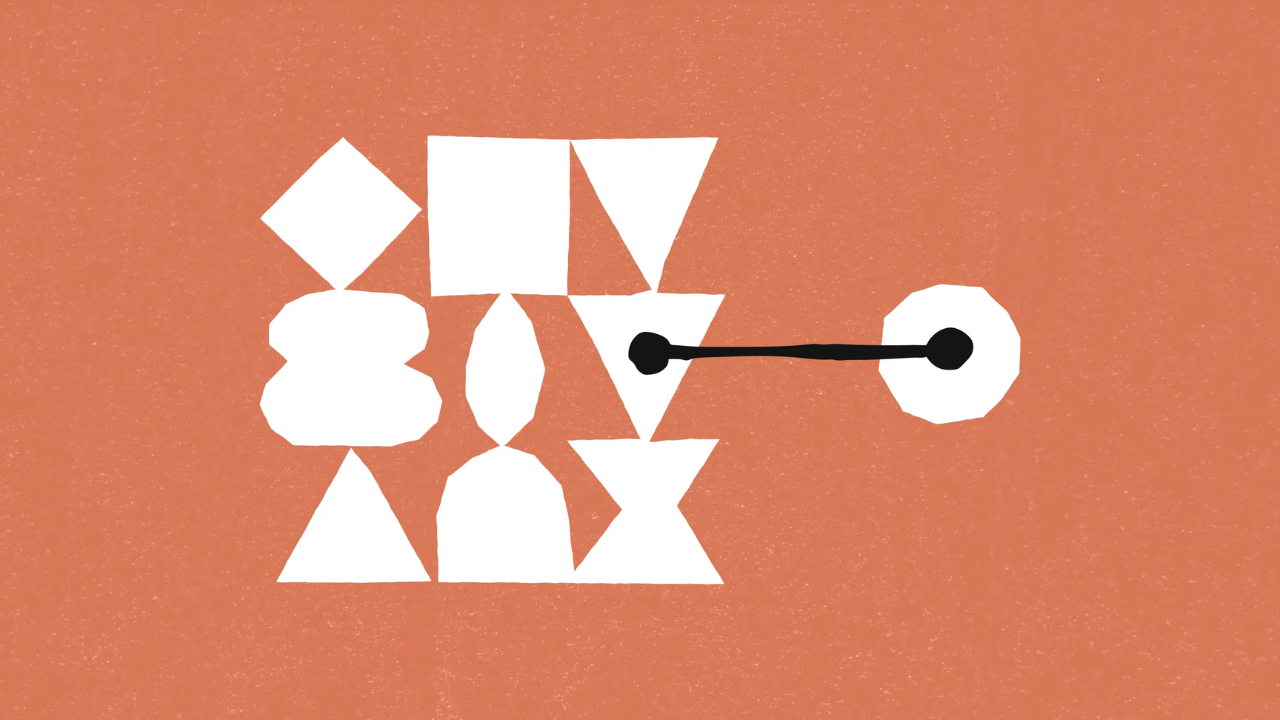
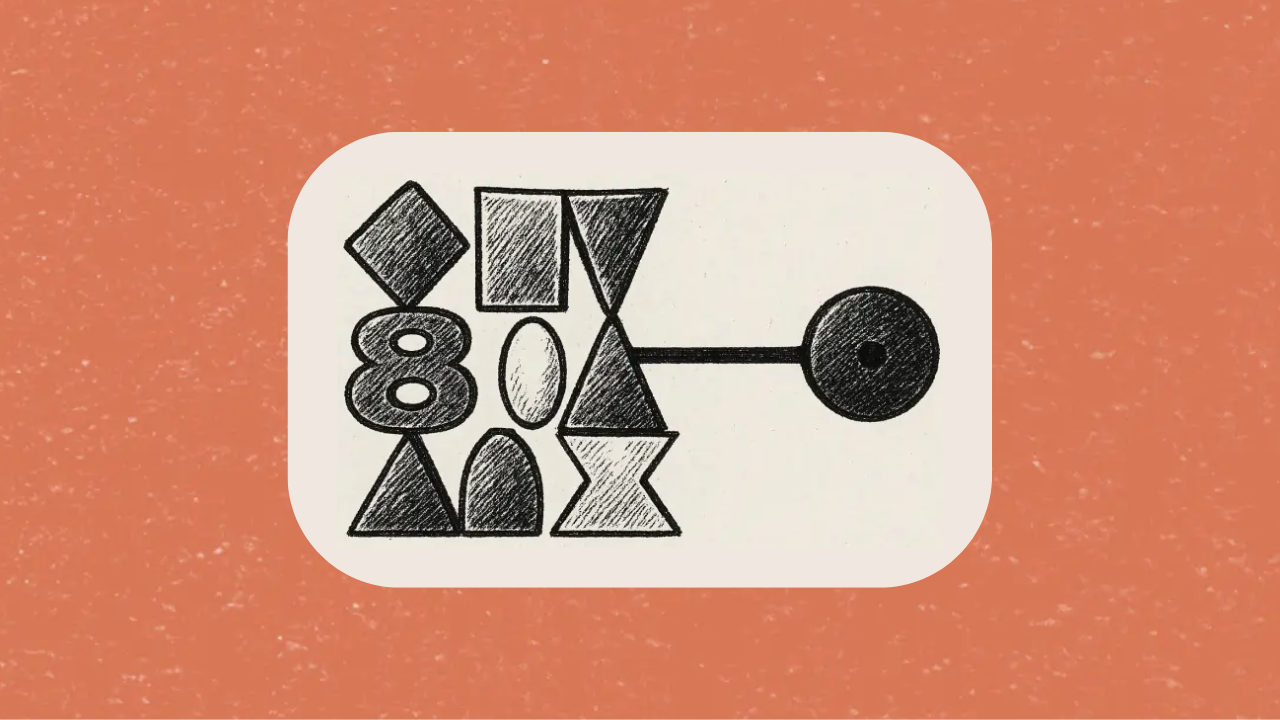
New thumbnails for blogs, Landing page UI bug first test fix

diff --git a/docs/blog/posts/post-2.md b/docs/blog/posts/post-2.md
@@ -1,7 +1,8 @@
 ---
-title: Private GPT
+title: Private GPT on Linux/WSL
 date:
   created: 2025-10-01
+  updated: 2025-10-07
 categories:
   - GPTs and LLMs
 ---
@@ -11,9 +12,6 @@ categories:
 </div>
 
 <!-- more -->
-<div align="center" style="font-size: 0.7em; font-style: italic;">
-  Image courtesy: <a href="https://x.com/ollama/status/1932179388151255081" target="_blank" style="text-decoration: underline; color: inherit;">Ollama</a>
-</div>
 
 &nbsp;
 
@@ -27,7 +25,7 @@ So I went in, got my hands dirty and got that set up. Took me a couple of weeks 
 
 &nbsp;
 
-## :material-toolbox: Setup and Installation
+## :material-toolbox: Installation and Setup
 
 ### **Ollama**
 
@@ -61,7 +59,7 @@ Awesome, once all that is done, you will be asked to make an Admin credential. D
 
 Awesome, so if everything is done right, Ollama would have also been recognised by default and you will see your model being listed in the UI. Go ahead and try it out. You have officially set up your very own Private GPT!
 
-## :fontawesome-solid-gears: Advanced Topics
+## :fontawesome-solid-gears: Useful features (Advanced Setups)
 
 Okay so you have set up our Private GPT (Yay). That's the easy part so let's get into the cool part. Now, there are a lot of capabilities we can unlock from here, to truly build an intelligent system which is useful for us and that is what I will be covering here. Everything which I have tried and which ACTUALLY worked.
 
@@ -74,9 +72,9 @@ This used to be slightly tricky during the earlier versions (especially the redi
 The [Env Configuration](https://docs.openwebui.com/getting-started/env-configuration#microsoft) of the documentation covers this really well including all the variables you require. Make sure you follow the Microsoft Learn link where they guide you through making the app on Entra. I have attached how that app is going to look after all of it is done:
 
 <div align="center">
-<img src="/assets/images/blog-assets/post-2-assets/od-5.png" alt="oAuth Setup" width="90%">
-<p><i>2 IDs, 1 Secret URL and 1 Redirect URL</i></p>
+<img src="/assets/images/blog-assets/post-2-assets/od-5.png" alt="oAuth Setup" width="80%" style="border: 1px solid #e0e0e0; border-radius: 10px; box-shadow: 0 4px 10px rgba(0,0,0,0.1);">
 </div>
+<div align="center" style="font-size: 0.7em; font-style: italic;">2 IDs, 1 Secret URL and 1 Redirect URL</div>
 
 Couple of important points here:
 
@@ -101,58 +99,28 @@ Here's some visual help on which all values you are supposed to consider as you 
 <br>
 
 <div align="center">
-<img src="/assets/images/blog-assets/post-2-assets/od-2.png" alt="OneDrive Setup - Overview page" width="90%">
-<p><i>Overview of the app created for handling OneDrive setup</i></p>
+<img src="/assets/images/blog-assets/post-2-assets/od-2.png" alt="OneDrive Setup - Overview page" width="80%" style="border: 1px solid #e0e0e0; border-radius: 10px; box-shadow: 0 4px 10px rgba(0,0,0,0.1);">
 </div>
+<div align="center" style="font-size: 0.7em; font-style: italic;">Overview of the app created for handling OneDrive setup</div>
 
 <br>
 
 <div align="center">
-<img src="/assets/images/blog-assets/post-2-assets/od-1.png" alt="OneDrive Setup - API Permissions" width="90%">
-<p><i>Necessary API Permissions that need to be delegated</i></p>
+<img src="/assets/images/blog-assets/post-2-assets/od-1.png" alt="OneDrive Setup - API Permissions" width="80%" style="border: 1px solid #e0e0e0; border-radius: 10px; box-shadow: 0 4px 10px rgba(0,0,0,0.1);">
 </div>
+<div align="center" style="font-size: 0.7em; font-style: italic;">Necessary API Permissions that need to be delegated</div>
 
 <br>
 
 <div align="center">
-<img src="/assets/images/blog-assets/post-2-assets/od-3.png" alt="OneDrive Setup - SPA Redirect" width="90%">
+<img src="/assets/images/blog-assets/post-2-assets/od-3.png" alt="OneDrive Setup - SPA Redirect" width="80%" style="border: 1px solid #e0e0e0; border-radius: 10px; box-shadow: 0 4px 10px rgba(0,0,0,0.1);">
 </div>
 
 <div align="center">
-<img src="/assets/images/blog-assets/post-2-assets/od-4.png" alt="OneDrive Setup - Redirect Tokens check" width="90%">
-<p><i>For Redirect ensure you select 'Single-Page Application' and check the two tokens options</i></p>
+<img src="/assets/images/blog-assets/post-2-assets/od-4.png" alt="OneDrive Setup - Redirect Tokens check" width="80%" style="border: 1px solid #e0e0e0; border-radius: 10px; box-shadow: 0 4px 10px rgba(0,0,0,0.1);">
 </div>
+<div align="center" style="font-size: 0.7em; font-style: italic;">For Redirect ensure you select 'Single-Page Application' and check the two tokens options</div>
 
 &nbsp;
 
-### III. **Improving Model performance**
-
-One major issue I had observed was users had to wait for a few seconds before the model could start responding. Now that doesn't really sound like a big deal, but when you are trying to push your users to use a private, secured GPT environment you also essentially have to convince them to move away from the brilliant ChatGPT platform (which is not an easy task). One major thing which makes ChatGPT very attractive is its performance. The speed of response is just ridiculously fast. We can't obviously match the infrastructure they have for the computation, but we can make our system marginally better.
-
-> While this is something I am still exploring (will update this section as I find more) here are a few tweaks I did find.
-
-Keeping the Model "warm" - Now this involves choosing one model and making sure it always runs whether it's been invoked or not. So Ollama remains active in the GPU resource therefore able to pull up more juice for faster response time. This way when the user does call the model for a query it responds almost immediately.
-
-<div align="center">
-<img src="/assets/images/blog-assets/post-2-assets/owu-1.png" alt="Ollama control" width="90%">
-</div>
-
-<div align="center">
-<img src="/assets/images/blog-assets/post-2-assets/owu-2.png" alt="Ollama control" width="90%">
-</div>
-
-Now this obviously comes with its drawbacks. A major one was already addressed - Infrastructure. Normally we do not really have that much GPU memory to always keep that resource active. What about the other projects which are running on our server? While GPU utilization implemented in NVIDIA Drivers is pretty intelligent, we need to keep an eye too. Take a look at the following image:
-
-<div align="center">
-<img src="/assets/images/blog-assets/post-2-assets/owu-3.png" alt="Ollama control" width="90%">
-</div>
-
-So from what I have observed so far, the other parameter tweaks that you do to a model directly impact the GPU utilization for it. In my case, I have noticed a change whenever I change the context window of a model.
-
-<div align="center">
-<img src="/assets/images/blog-assets/post-2-assets/owu-4.png" alt="Ollama control" width="90%">
-</div>
-
-I might be wrong here, maybe there is another factor causing this. But it is worth noting that you have to be very aware of the environment you are working in. While it's very tempting to reach the performance capability of ChatGPT it's also important to understand what the limits of your environment are as well as you cannot afford to have any downtime while you have users using your application.
-
-&nbsp;
+!!! info "Will add more features as I implement them and if they are useful enough to be worth documenting"

diff --git a/docs/blog/posts/post-1.md b/docs/blog/posts/post-1.md
@@ -12,9 +12,6 @@ categories:
 </div>
 
 <!-- more -->
-<div align="center" style="font-size: 0.7em; font-style: italic;">
-  Image courtesy: <a href="https://www.anthropic.com/news/model-context-protocol" target="_blank" style="text-decoration: underline; color: inherit;">Anthropic</a>
-</div>
 
 &nbsp;
 
@@ -55,11 +52,21 @@ A. MCP Servers provide tool schemas + functions already defined for you.
 MCP is essentially a Client-Server Architecture. The following two slides show this well.
 
 <div align="center">
-<img src="/assets/images/blog-assets/post-1-assets/mcp-arch-1.png" alt="Client-Server Architecture" width="90%">
+    <img 
+        src="/assets/images/blog-assets/post-1-assets/mcp-arch-1.png" 
+        alt="Client-Server Architecture" 
+        width="80%" 
+        style="border: 1px solid #e0e0e0; border-radius: 10px; box-shadow: 0 4px 10px rgba(0,0,0,0.1);"
+    >
 </div>
 
 <div align="center">
-<img src="/assets/images/blog-assets/post-1-assets/mcp-arch-2.png" alt="Working of Client-Server Architecture" width="90%">
+    <img 
+        src="/assets/images/blog-assets/post-1-assets/mcp-arch-2.png" 
+        alt="Working of Client-Server Architecture" 
+        width="80%" 
+        style="border: 1px solid #e0e0e0; border-radius: 10px; box-shadow: 0 4px 10px rgba(0,0,0,0.1);"
+    >
 </div>
 
 In the second image above, we can see three different functionalities which MCP offers: Tools, Resources and Prompt Templates. So how do we utilize them?
@@ -114,7 +121,7 @@ In the second image above, we can see three different functionalities which MCP 
     Below shows the two ways. In direct we specifically choose the file we need via `@`, but in template we simply mention it as part of the prompt and it is sent to the client. The application then decides whether it needs to take that data or not (Rather than having a tool call first to take the data, then pass it to the prompt and then send).
 
     <div align="center">
-    <img src="/assets/images/blog-assets/post-1-assets/mcp-resources.png" alt="Working of Client-Server Architecture" width="90%">
+    <img src="/assets/images/blog-assets/post-1-assets/mcp-resources.png" alt="Working of Client-Server Architecture" width="80%" style="border: 1px solid #e0e0e0; border-radius: 10px; box-shadow: 0 4px 10px rgba(0,0,0,0.1);">
     </div>
 
 3. **Prompts**
@@ -138,7 +145,12 @@ In the second image above, we can see three different functionalities which MCP 
 The image below depicts the typical communication lifecycle between MCP servers and clients.
 
 <div align="center">
-<img src="/assets/images/blog-assets/post-1-assets/communication-lifecycle.png" alt="Communication Lifecycle" width="90%">
+    <img 
+        src="/assets/images/blog-assets/post-1-assets/communication-lifecycle.png" 
+        alt="Communication Lifecycle" 
+        width="80%" 
+        style="border: 1px solid #e0e0e0; border-radius: 10px; box-shadow: 0 4px 10px rgba(0,0,0,0.1);"
+    >
 </div>
 
 It is important to understand the steps here as these will be seen in code as well.
@@ -157,15 +169,30 @@ There are types for this as well depending on where the servers are running:
 - Remote servers: `HTTP+SSE (Server Sent Events)` or `Streamable HTTP`.
 
 <div align="center">
-<img src="/assets/images/blog-assets/post-1-assets/local-connection.png" alt="Local Connection" width="90%">
+    <img 
+        src="/assets/images/blog-assets/post-1-assets/local-connection.png" 
+        alt="Local Connection" 
+        width="80%" 
+        style="border: 1px solid #e0e0e0; border-radius: 10px; box-shadow: 0 4px 10px rgba(0,0,0,0.1);"
+    >
 </div>
 
 <div align="center">
-<img src="/assets/images/blog-assets/post-1-assets/remote-connections.png" alt="Remote Connection" width="90%">
+    <img 
+        src="/assets/images/blog-assets/post-1-assets/remote-connections.png" 
+        alt="Remote Connection" 
+        width="80%" 
+        style="border: 1px solid #e0e0e0; border-radius: 10px; box-shadow: 0 4px 10px rgba(0,0,0,0.1);"
+    >
 </div>
 
 <div align="center">
-<img src="/assets/images/blog-assets/post-1-assets/stateless-connection.png" alt="Stateless Connection" width="90%">
+    <img 
+        src="/assets/images/blog-assets/post-1-assets/stateless-connection.png" 
+        alt="Stateless Connection" 
+        width="80%" 
+        style="border: 1px solid #e0e0e0; border-radius: 10px; box-shadow: 0 4px 10px rgba(0,0,0,0.1);"
+    >
 </div>
 
 > Streamable HTTP will be the standard protocol which will be used going forward as stateless connections are much preferred.

diff --git a/docs/blog/posts/post-3.md b/docs/blog/posts/post-3.md
@@ -1,0 +1,50 @@
+---
+title: Open Source LLMs
+date:
+  created: 2025-10-02
+  updated: 2025-10-07
+categories:
+  - GPTs and LLMs
+---
+
+<div align="center">
+<img src="/assets/images/blog-assets/thumbnails/post-3.png" alt="Post 3 Thumbnail" width="100%">
+</div>
+
+<!-- more -->
+
+&nbsp;
+
+# :simple-ollama: Ollama - The Pros and Cons
+
+!!! note "Ongoing article"
+
+### **Model performance**
+
+One major issue I had observed was users had to wait for a few seconds before the model could start responding. Now that doesn't really sound like a big deal, but when you are trying to push your users to use a private, secured GPT environment you also essentially have to convince them to move away from the brilliant ChatGPT platform (which is not an easy task). One major thing which makes ChatGPT very attractive is its performance. The speed of response is just ridiculously fast. We can't obviously match the infrastructure they have for the computation, but we can make our system marginally better.
+
+> While this is something I am still exploring (will update this section as I find more) here are a few tweaks I did find.
+
+Keeping the Model "warm" - Now this involves choosing one model and making sure it always runs whether it's been invoked or not. So Ollama remains active in the GPU resource therefore able to pull up more juice for faster response time. This way when the user does call the model for a query it responds almost immediately.
+
+<div align="center">
+<img src="/assets/images/blog-assets/post-2-assets/owu-1.png" alt="Ollama control" width="80%" style="border: 1px solid #e0e0e0; border-radius: 10px; box-shadow: 0 4px 10px rgba(0,0,0,0.1);">
+</div>
+
+<div align="center">
+<img src="/assets/images/blog-assets/post-2-assets/owu-2.png" alt="Ollama control" width="80%" style="border: 1px solid #e0e0e0; border-radius: 10px; box-shadow: 0 4px 10px rgba(0,0,0,0.1);">
+</div>
+
+Now this obviously comes with its drawbacks. A major one was already addressed - Infrastructure. Normally we do not really have that much GPU memory to always keep that resource active. What about the other projects which are running on our server? While GPU utilization implemented in NVIDIA Drivers is pretty intelligent, we need to keep an eye too. Take a look at the following image:
+
+<div align="center">
+<img src="/assets/images/blog-assets/post-2-assets/owu-3.png" alt="Ollama control" width="80%" style="border: 1px solid #e0e0e0; border-radius: 10px; box-shadow: 0 4px 10px rgba(0,0,0,0.1);">
+</div>
+
+So from what I have observed so far, the other parameter tweaks that you do to a model directly impact the GPU utilization for it. In my case, I have noticed a change whenever I change the context window of a model.
+
+<div align="center">
+<img src="/assets/images/blog-assets/post-2-assets/owu-4.png" alt="Ollama control" width="80%" style="border: 1px solid #e0e0e0; border-radius: 10px; box-shadow: 0 4px 10px rgba(0,0,0,0.1);">
+</div>
+
+I might be wrong here, maybe there is another factor causing this. But it is worth noting that you have to be very aware of the environment you are working in. While it's very tempting to reach the performance capability of ChatGPT it's also important to understand what the limits of your environment are as well as you cannot afford to have any downtime while you have users using your application.

diff --git a/docs/index.md b/docs/index.md
@@ -4,6 +4,66 @@ hide:
   - toc
 ---
 
+<style>
+  #vanta-background {
+    position: fixed !important;
+    top: 0 !important;
+    left: 0 !important;
+    width: 100vw !important;
+    min-height: 100vh !important;
+    overflow: hidden !important;
+    z-index: -1 !important;
+  }
+
+  .landing-page .hero-content {
+    position: absolute !important;
+    top: 50% !important;
+    left: 10% !important;
+    transform: translateY(-50%) !important;
+    width: min(40%, 480px) !important;
+    padding: 20px !important;
+    z-index: 1 !important;
+  }
+
+  .hero-logo {
+    display: none !important;
+    width: 80% !important;
+    margin-bottom: 10px !important;
+  }
+
+  body[data-md-color-scheme="default"] .light-logo {
+    display: block !important;
+  }
+
+  body[data-md-color-scheme="slate"] .dark-logo {
+    display: block !important;
+  }
+
+  .hero-content h1 {
+    font-size: 0.1em !important;
+  }
+
+  .hero-content p {
+    font-size: 1.2em !important;
+  }
+
+  @media (max-width: 768px) {
+    .landing-page .hero-content {
+      left: 5% !important;
+      width: 90% !important;
+      padding: 10px !important;
+    }
+
+    .hero-logo {
+      width: 100% !important;
+    }
+
+    .hero-content p {
+      font-size: 1.1em !important;
+    }
+  }
+</style>
+
 <script>
 (function ensureLandingStyles() {
   var existing = document.querySelector('link[data-landing-custom-style]');

diff --git a/docs/blog/posts/post-4.md b/docs/blog/posts/post-4.md
@@ -1,0 +1,12 @@
+---
+title: Private GPT on MacOS
+date:
+  created: 2025-10-07
+categories:
+  - GPTs and LLMs
+---
+
+<div align="center">
+<img src="/assets/images/blog-assets/thumbnails/post-4.png" alt="Post 4 Thumbnail" width="100%">
+</div>
+<div style="font-size: 0.8em;">COMING SOON</div>
